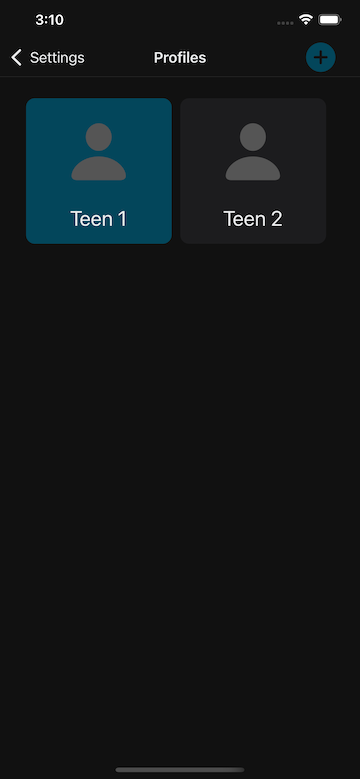
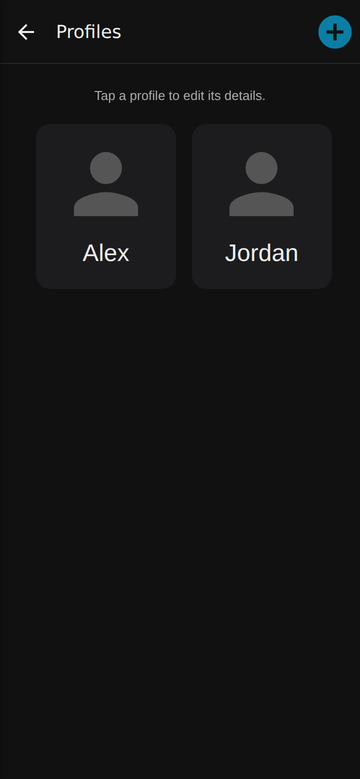
marketing: refresh hero and safety screenshots from current web app
Replace the outdated Student profiles / Bot settings captures with
fresh 360px renders of the current profiles list and bot editor
(basic + advanced). Update declared img heights to match.

diff --git a/site/source/templates/marketing.html b/site/source/templates/marketing.html
@@ -143,7 +143,7 @@
                                 <figcaption>Student profiles</figcaption>
                             </figure>
                             <figure>
-                                <img src="{% static 'screenshots/bot-editor-basic.png' %}" alt="Bot editor with content restrictions enabled" width="360" height="618" loading="lazy">
+                                <img src="{% static 'screenshots/bot-editor-basic.png' %}" alt="Bot editor with content restrictions enabled" width="360" height="1106" loading="lazy">
                                 <figcaption>Bot settings</figcaption>
                             </figure>
                         </div>
@@ -165,7 +165,7 @@
                     </ul>
                 </div>
                 <figure class="shot reveal">
-                    <img src="{% static 'screenshots/bot-editor-advanced.png' %}" alt="Syft advanced bot editor settings" width="360" height="618" loading="lazy">
+                    <img src="{% static 'screenshots/bot-editor-advanced.png' %}" alt="Syft advanced bot editor settings" width="360" height="1018" loading="lazy">
                     <figcaption>Parents can configure a bot's instructions and content restrictions.</figcaption>
                 </figure>
             </div>
